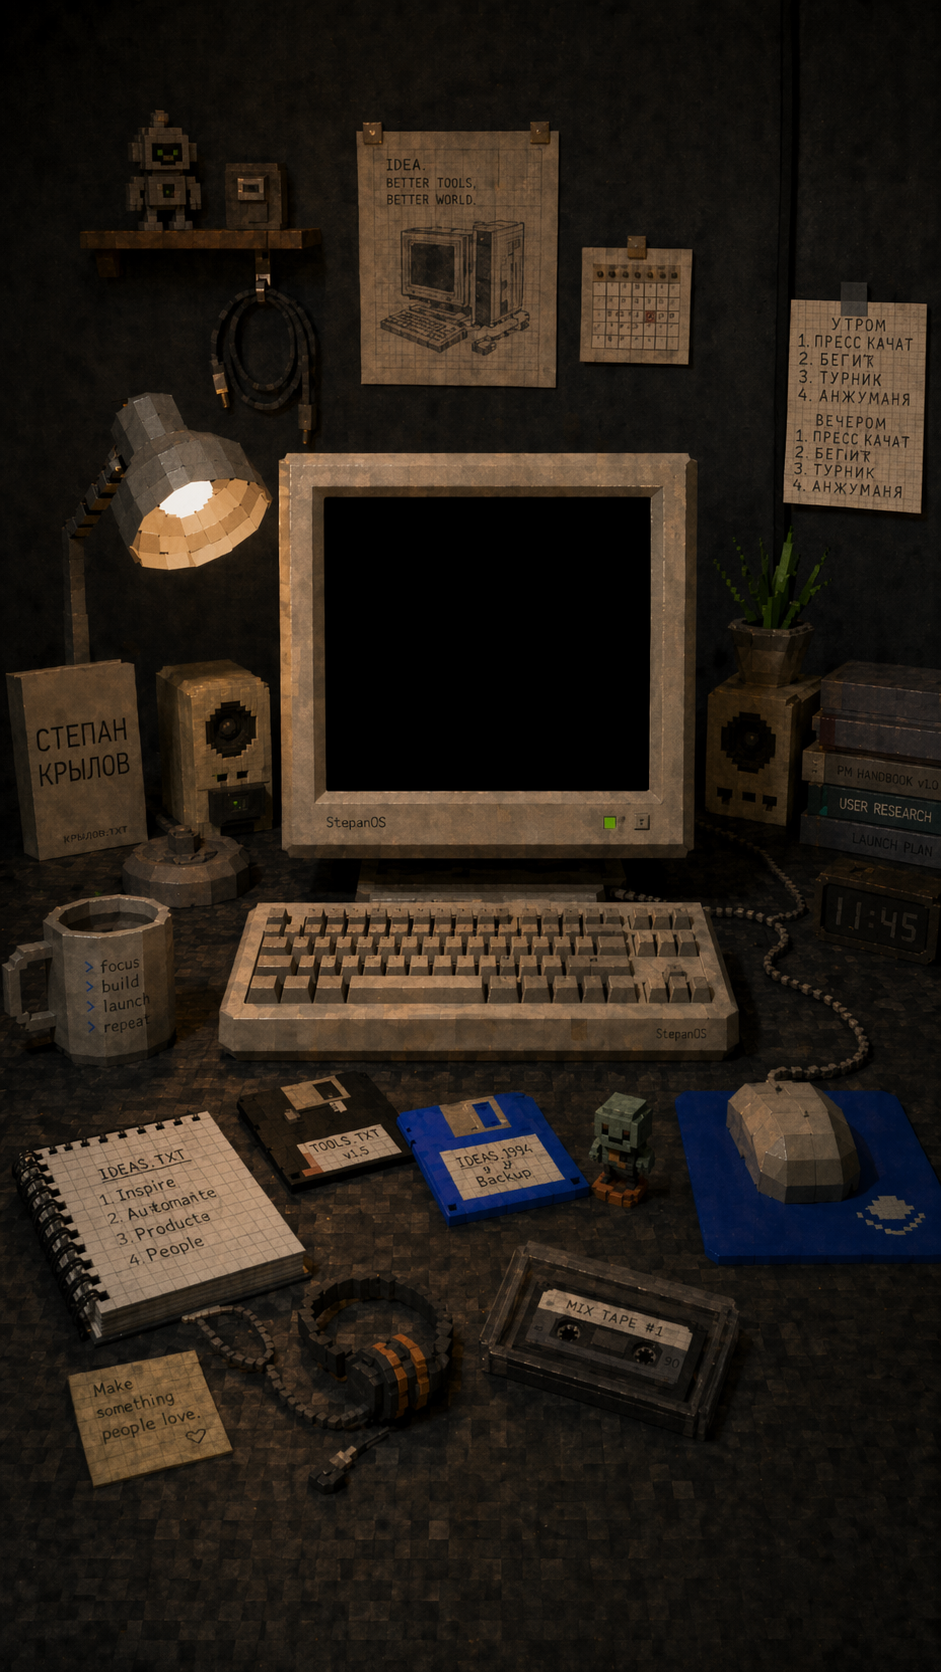
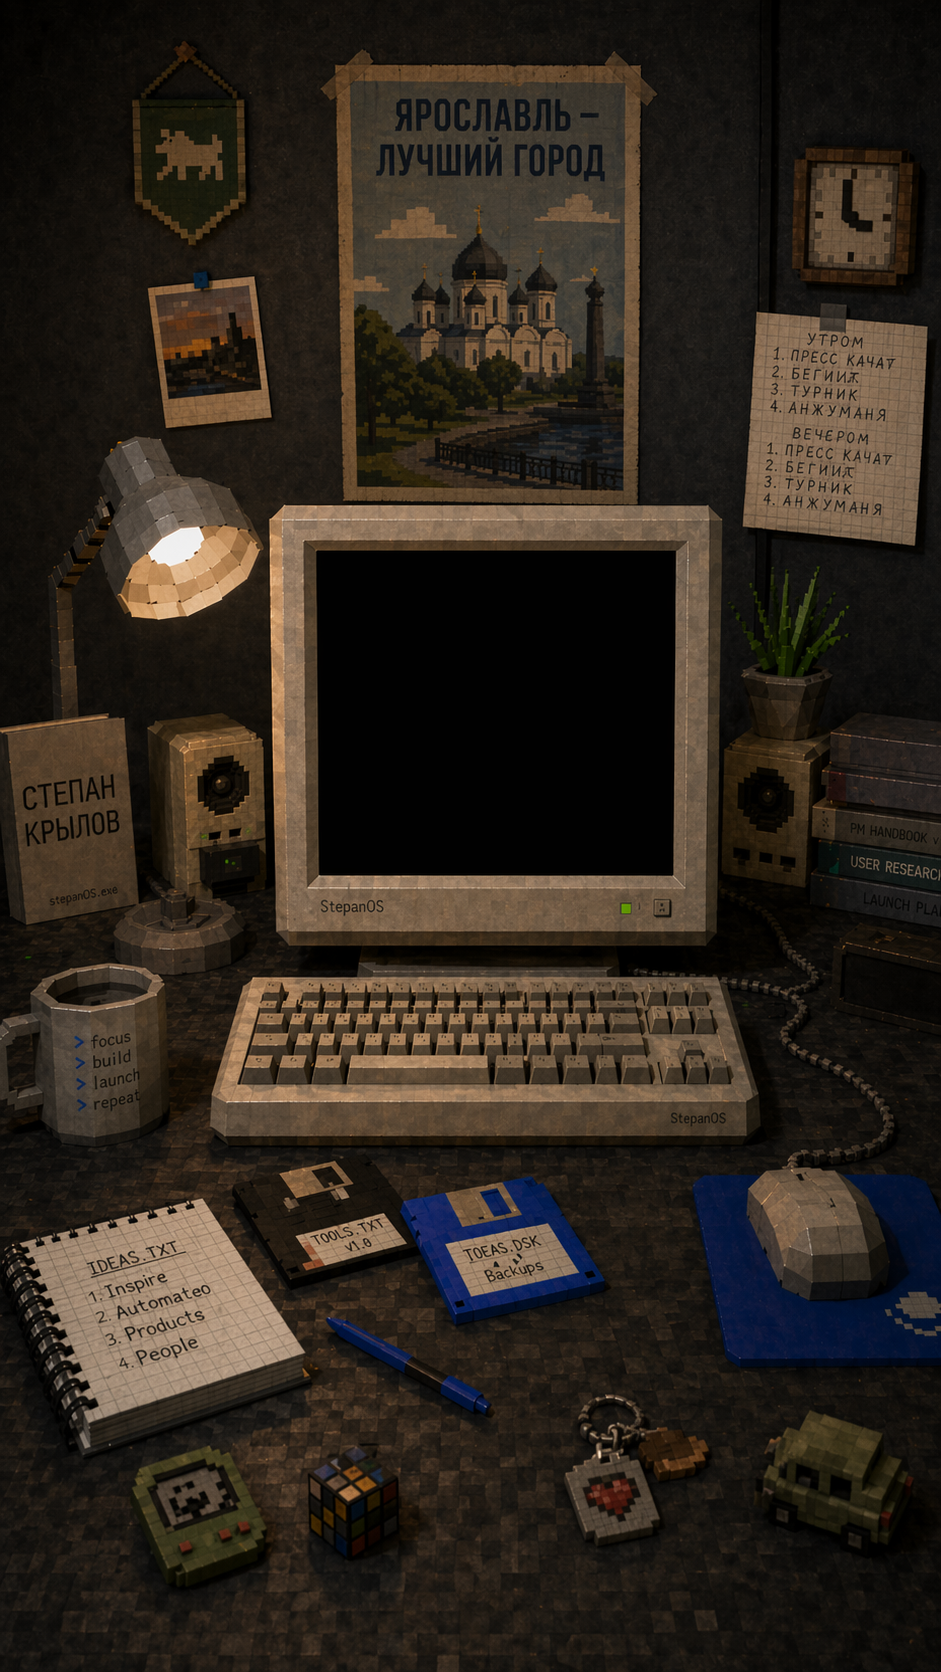
feat(mobile): новый фон + игры со скроллом + мусор мини + крупные иконки
1. Новый финальный bg-mobile.png ('Ярославль — лучший город' плакат,
   часы, больше деталей). CRT-экран крупнее и ниже:
   было 34.4/29.7/34.6/17.5 → стало 33.7/33.0/37.9/19.3
   (перемерил попиксельно python-скриптом).

2. Иконки в CRT крупнее: 28×28 → 36×36 (Telegram 34 → 44),
   подпись 7 → 8.5px, имя 9 → 11px.

3. Игры на мобилке — фикс D-pad, уезжавшего за экран:
   - height 100vh → 100dvh (dynamic viewport учитывает URL-bar Safari)
   - padding-bottom использует env(safe-area-inset-bottom) — iOS home-bar
   - -webkit-overflow-scrolling: touch для плавного iOS-скролла
   - canvas snake 200 → 180, ttt-cell 44 → 40, d-pad 36→44×28→32
     (больше тач-таргет, меньше общая высота)

4. Корзина — больше не fullscreen, а маленькая плашка по центру
   (240px × max 60vh). Контент-шрифт 16px, плашка вертикально
   центрирована.

5. Десктоп: ярлыки побольше по просьбе Стёпы. Иконки 44 → 56
   (Telegram 60 → 72), grid minmax 76 → 90, подпись 12 → 13px.
   Всё остальное на десктопе не трогал.

v=9 — кэш-бастинг.

diff --git a/style.css b/style.css
@@ -474,15 +474,15 @@ body { background: #0a0a0a; }   /* тёмные поля снаружи окна
 .home-icons {
   flex: 1;
   display: grid;
-  grid-template-columns: repeat(auto-fill, minmax(76px, 1fr));
-  gap: 10px 6px;
-  padding: 6px 12px 14px;
+  grid-template-columns: repeat(auto-fill, minmax(90px, 1fr));
+  gap: 12px 8px;
+  padding: 8px 14px 14px;
   align-content: start;
 }
 .mw-icon {
   display: flex; flex-direction: column; align-items: center;
-  gap: 3px;
-  padding: 4px 2px 2px;
+  gap: 4px;
+  padding: 5px 2px 3px;
   cursor: pointer;
   user-select: none;
   border: 1px dotted transparent;
@@ -495,31 +495,31 @@ body { background: #0a0a0a; }   /* тёмные поля снаружи окна
   border: 1px dotted rgba(255, 255, 0, 0.9);
 }
 .mw-icon-img {
-  width: 44px; height: 44px;
+  width: 56px; height: 56px;
   display: flex; align-items: center; justify-content: center;
 }
 .mw-icon-img img,
 .mw-icon-img .folder-svg {
-  width: 44px; height: 44px;
+  width: 56px; height: 56px;
   object-fit: contain;
   filter: drop-shadow(1px 1px 0 rgba(0,0,0,.6));
 }
 /* Telegram icon — bigger, its PNG has more whitespace around glyph */
 .mw-icon[data-app="telegram"] .mw-icon-img {
-  width: 60px; height: 60px;
+  width: 72px; height: 72px;
 }
 .mw-icon[data-app="telegram"] .mw-icon-img img {
-  width: 60px; height: 60px;
+  width: 72px; height: 72px;
 }
 .mw-icon-lbl {
   font-family: var(--f-sys);
-  font-size: 12px;
+  font-size: 13px;
   font-weight: bold;
   color: #fff;
   text-align: center;
   line-height: 1.1;
   padding: 1px 3px;
-  max-width: 76px;
+  max-width: 90px;
   text-shadow:
     1px 1px 0 #000,
     -1px 1px 0 #000,
@@ -803,13 +803,13 @@ body { background: #0a0a0a; }   /* тёмные поля снаружи окна
     background-image: url('bg-mobile.png');
   }
 
-  /* ТОЧНЫЕ координаты чёрного CRT-экрана на новом bg-mobile.png
-     (измерено попиксельно: x=34.4..69.1%, y=29.7..47.2%) */
+  /* ТОЧНЫЕ координаты чёрного CRT-экрана на финальном bg-mobile.png
+     (измерено попиксельно: x=33.7..71.6%, y=33.0..52.3%) */
   #monitor-win {
-    left:   34.4%;
-    top:    29.7%;
-    width:  34.7%;
-    height: 17.5%;
+    left:   33.7%;
+    top:    33.0%;
+    width:  37.9%;
+    height: 19.3%;
     box-shadow:
       inset 1px 1px 0 rgba(255,255,255,.4),
       inset -1px -1px 0 rgba(0,0,0,.25),
@@ -849,39 +849,37 @@ body { background: #0a0a0a; }   /* тёмные поля снаружи окна
   }
 
   .home-head {
-    /* чуть ниже от верхнего края CRT — было 4px, теперь 9px */
-    padding: 9px 4px 2px;
+    padding: 11px 4px 3px;
     text-align: center;
     flex-shrink: 0;
   }
   .hero-name {
-    font-size: 9px;
-    letter-spacing: .5px;
+    font-size: 11px;
+    letter-spacing: .7px;
     margin: 0;
-    line-height: 1.1;
+    line-height: 1.15;
     text-shadow: 1px 1px 0 rgba(0,0,0,.7);
   }
 
-  /* Сетка иконок — 3 в ряд × 2 ряда (5 иконок: 3 сверху, 2 снизу),
-     иконки крупнее чем раньше, 28×28. */
+  /* Сетка 3×2, иконки больше — CRT теперь 37.9%×19.3% от экрана. */
   .home-icons {
     flex: 1;
     grid-template-columns: repeat(3, 1fr);
-    gap: 3px 2px;
-    padding: 3px 3px 5px;
+    gap: 4px 3px;
+    padding: 4px 4px 6px;
     align-content: center;
   }
   .mw-icon {
     padding: 2px 0 0;
-    gap: 1px;
+    gap: 2px;
     border-width: 0;
   }
-  .mw-icon-img { width: 28px; height: 28px; }
-  .mw-icon-img img, .mw-icon-img .folder-svg { width: 28px; height: 28px; }
+  .mw-icon-img { width: 36px; height: 36px; }
+  .mw-icon-img img, .mw-icon-img .folder-svg { width: 36px; height: 36px; }
   .mw-icon[data-app="telegram"] .mw-icon-img,
-  .mw-icon[data-app="telegram"] .mw-icon-img img { width: 34px; height: 34px; }
+  .mw-icon[data-app="telegram"] .mw-icon-img img { width: 44px; height: 44px; }
   .mw-icon-lbl {
-    font-size: 7px;
+    font-size: 8.5px;
     max-width: 100%;
     padding: 0 2px;
     margin-top: 1px;
@@ -982,14 +980,17 @@ body { background: #0a0a0a; }   /* тёмные поля снаружи окна
   .mm-tb-title { font-size: 14px; }
 
   /* ── Игры-модалка на мобилке: FULLSCREEN + фиксированный титлбар ──
-     До этого max-height: 88vh уезжал за экран, крестик не было видно.
-     Теперь модалка на весь экран, титлбар всегда вверху, тело скроллится. */
+     100dvh (dynamic viewport height) — корректно учитывает URL-bar Safari,
+     из-за которого 100vh раньше был больше visible-области и D-pad уезжал
+     за край. safe-area-inset-bottom — страховка от home-bar iOS. */
   #games-modal { padding: 0; align-items: stretch; justify-content: stretch; }
   .gm-frame {
-    width: 100vw;
-    max-width: 100vw;
-    height: 100vh;
+    width: 100%;
+    max-width: 100%;
+    height: 100vh;    /* fallback для старых браузеров */
+    height: 100dvh;
     max-height: 100vh;
+    max-height: 100dvh;
     border-width: 0;
   }
   .gm-titlebar { height: 30px; padding: 0 3px 0 5px; font-size: 13px; }
@@ -998,26 +999,39 @@ body { background: #0a0a0a; }   /* тёмные поля снаружи окна
   .gm-body {
     grid-template-columns: 1fr;
     gap: 14px;
-    padding: 14px;
+    padding: 12px 12px calc(24px + env(safe-area-inset-bottom));
     flex: 1;
     overflow-y: auto;
-    /* Достаточно места снизу, чтобы снэйк не упирался в хоум-бар iOS */
-    padding-bottom: 40px;
+    -webkit-overflow-scrolling: touch;
   }
+  /* Снейк и крестики — чуть компактнее, чтобы без скролла влезла хотя бы
+     ОДНА полноразмерная игра (вторая — скроллом ниже). */
+  #snake-canvas { width: 180px; height: 180px; }
+  .ttt-grid { grid-template-columns: repeat(3, 40px); }
+  .ttt-cell { width: 40px; height: 40px; font-size: 26px; }
+  .snake-dpad { gap: 4px; margin-top: 6px; }
+  .dpad { width: 44px; height: 32px; font-size: 16px; }
 
-  /* Корзина — тоже fullscreen */
-  #trash-modal { padding: 0; align-items: stretch; justify-content: stretch; }
-  .tm-frame {
-    width: 100vw;
-    max-width: 100vw;
-    height: 100vh;
-    border-width: 0;
-    display: flex; flex-direction: column;
+  /* Корзина — маленькая всплывашка по центру, не fullscreen */
+  #trash-modal {
+    padding: 20px;
+    align-items: center;
+    justify-content: center;
   }
-  .tm-frame .gm-titlebar { height: 30px; padding: 0 3px 0 5px; font-size: 13px; }
-  .tm-frame .gm-titlebar .mw-tb-icon { width: 18px; height: 18px; font-size: 10px; }
-  .tm-frame .gm-titlebar .mw-tb-btn { width: 32px; height: 24px; font-size: 17px; }
-  .tm-body { flex: 1; display: flex; flex-direction: column; justify-content: center; }
+  .tm-frame {
+    width: auto;
+    min-width: 240px;
+    max-width: 84vw;
+    height: auto;
+    max-height: 60vh;
+    border-width: 2px;
+    display: block;
+  }
+  .tm-frame .gm-titlebar { height: 24px; padding: 0 2px 0 4px; font-size: 11px; }
+  .tm-frame .gm-titlebar .mw-tb-icon { width: 15px; height: 15px; font-size: 9px; }
+  .tm-frame .gm-titlebar .mw-tb-btn { width: 22px; height: 18px; font-size: 13px; }
+  .tm-body { padding: 22px 18px; margin: 4px; }
+  .tm-p { font-size: 16px; }
 }
 
 /* Очень узкий (≤ 360px — iPhone SE, старые Android) — чуть ужимаем крупные иконки */

diff --git a/index.html b/index.html
@@ -10,7 +10,7 @@
 <link rel="preconnect" href="https://fonts.googleapis.com">
 <link rel="preconnect" href="https://fonts.gstatic.com" crossorigin>
 <link href="https://fonts.googleapis.com/css2?family=VT323&family=Press+Start+2P&display=swap" rel="stylesheet">
-<link rel="stylesheet" href="style.css?v=8">
+<link rel="stylesheet" href="style.css?v=9">
 </head>
 <body>
 
@@ -325,6 +325,6 @@
   </div>
 </div>
 
-<script src="app.js?v=8"></script>
+<script src="app.js?v=9"></script>
 </body>
 </html>
